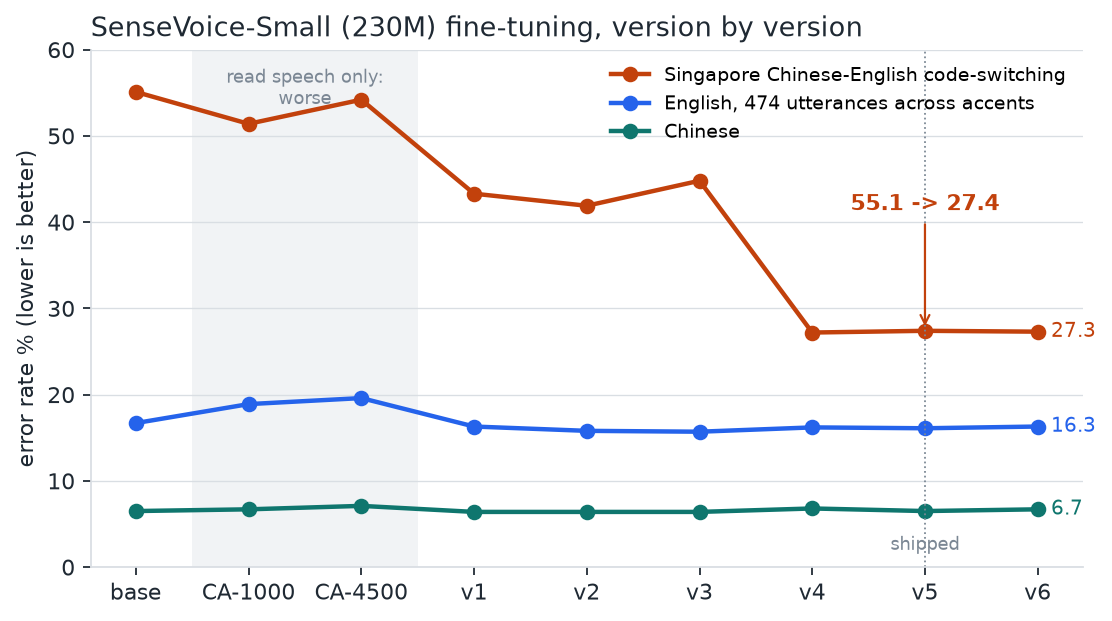
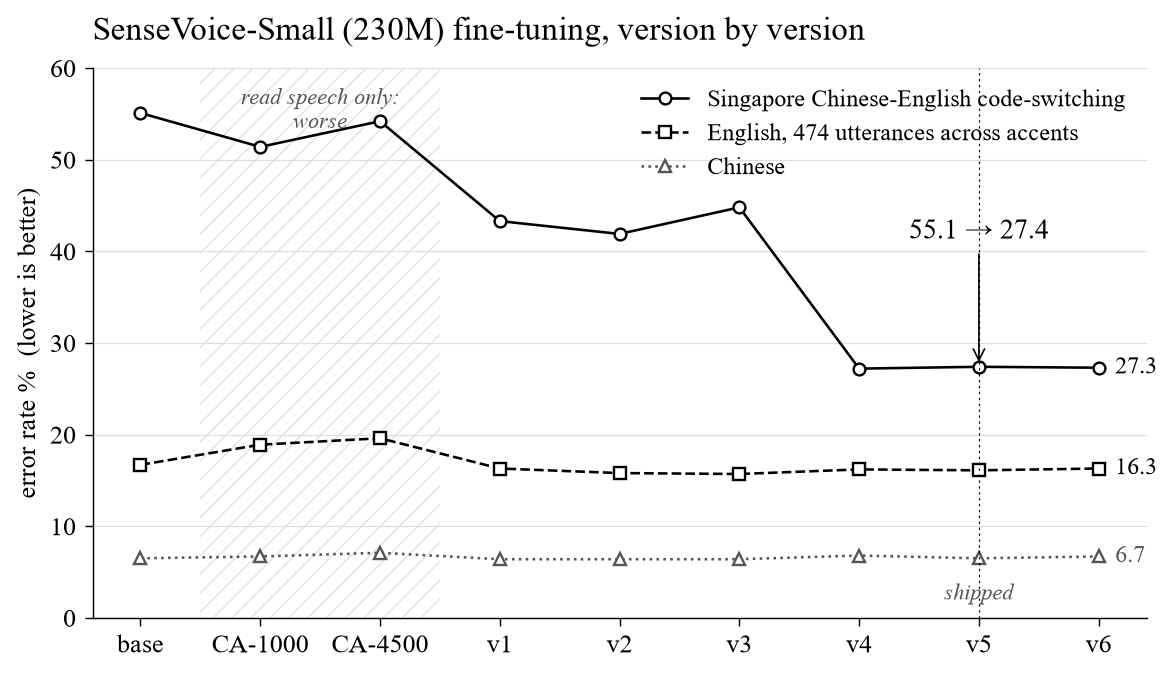
Monochrome line style, serif type for all charts and the pipeline diagram

diff --git a/tools/make_charts.py b/tools/make_charts.py
@@ -1,5 +1,6 @@
 """Draw the README charts from results/*.csv into docs/img/.
 
+Monochrome line style (black on white, serif type), matching docs/img/pipeline.png.
 Usage: python tools/make_charts.py   (needs matplotlib)
 """
 import csv
@@ -14,19 +15,22 @@ ROOT = os.path.dirname(os.path.dirname(os.path.abspath(__file__)))
 RES = os.path.join(ROOT, "results")
 OUT = os.path.join(ROOT, "docs", "img")
 
-INK = "#1f2933"
-GRID = "#d9dee3"
-MUTED = "#7b8794"
-C1 = "#c2410c"   # headline series
-C2 = "#2563eb"
-C3 = "#0f766e"
-TEACHER = "#94a3b8"
+INK = "#000000"
+MUTED = "#555555"
+GRID = "#dddddd"
+# bar fills, light to dark: reference / baseline / ours
+F_REF = "#ffffff"
+F_MID = "#bbbbbb"
+F_OURS = "#000000"
 
 plt.rcParams.update({
-    "font.family": "DejaVu Sans", "font.size": 10, "axes.edgecolor": GRID, "axes.labelcolor": INK,
-    "xtick.color": INK, "ytick.color": INK, "axes.spines.top": False, "axes.spines.right": False,
-    "figure.facecolor": "white", "axes.facecolor": "white", "savefig.dpi": 160,
+    "font.family": "serif", "font.serif": ["Times New Roman", "Times", "Liberation Serif", "DejaVu Serif"],
+    "font.size": 11, "axes.edgecolor": INK, "axes.linewidth": 0.6, "axes.labelcolor": INK,
+    "xtick.color": INK, "ytick.color": INK, "xtick.major.width": 0.6, "ytick.major.width": 0.6,
+    "axes.spines.top": False, "axes.spines.right": False, "hatch.linewidth": 0.5,
+    "figure.facecolor": "white", "axes.facecolor": "white", "savefig.dpi": 170,
 })
+BAR = dict(edgecolor=INK, linewidth=0.6)
 
 
 def rows(name):
@@ -41,31 +45,37 @@ def save(fig, name):
     print("wrote", name)
 
 
+def title(ax, text):
+    ax.set_title(text, loc="left", color=INK, fontsize=14, pad=12)
+
+
 def asr_progress():
     r = rows("asr_versions.csv")
     x = list(range(len(r)))
     labels = [d["version"] for d in r]
     fig, ax = plt.subplots(figsize=(8, 4.2))
-    for key, name, color in (("sg_codeswitch", "Singapore Chinese-English code-switching", C1),
-                             ("english_overall", "English, 474 utterances across accents", C2),
-                             ("chinese", "Chinese", C3)):
+    series = (("sg_codeswitch", "Singapore Chinese-English code-switching", "-", "o", INK),
+              ("english_overall", "English, 474 utterances across accents", "--", "s", INK),
+              ("chinese", "Chinese", ":", "^", MUTED))
+    for key, name, ls, mk, color in series:
         y = [float(d[key]) for d in r]
-        ax.plot(x, y, marker="o", color=color, lw=2, label=name)
-        ax.annotate(f"{y[-1]:.1f}", (x[-1], y[-1]), xytext=(6, 0), textcoords="offset points",
-                    va="center", color=color, fontsize=9)
+        ax.plot(x, y, ls=ls, marker=mk, ms=5, color=color, lw=1.1, label=name, mfc="white", mew=1)
+        ax.annotate(f"{y[-1]:.1f}", (x[-1], y[-1]), xytext=(7, 0), textcoords="offset points",
+                    va="center", color=color, fontsize=10)
     sg0, sg5 = float(r[0]["sg_codeswitch"]), float(r[7]["sg_codeswitch"])
-    ax.annotate(f"{sg0:.1f} -> {sg5:.1f}", (7, sg5), xytext=(7, sg5 + 14), ha="center", color=C1,
-                fontsize=10, fontweight="bold", arrowprops=dict(arrowstyle="->", color=C1))
-    ax.axvspan(0.5, 2.5, color=GRID, alpha=0.35, lw=0)
-    ax.text(1.5, 58, "read speech only:\nworse", ha="center", va="top", color=MUTED, fontsize=8)
-    ax.axvline(7, color=MUTED, lw=0.8, ls=":")
-    ax.text(7, 2, "shipped", ha="center", color=MUTED, fontsize=8)
+    ax.annotate(f"{sg0:.1f} → {sg5:.1f}", (7, sg5), xytext=(7, sg5 + 14), ha="center", color=INK,
+                fontsize=12, arrowprops=dict(arrowstyle="->", color=INK, lw=0.7))
+    ax.axvspan(0.5, 2.5, facecolor="none", edgecolor=GRID, hatch="///", lw=0)
+    ax.text(1.5, 58, "read speech only:\nworse", ha="center", va="top", color=MUTED, fontsize=9.5,
+            style="italic")
+    ax.axvline(7, color=INK, lw=0.5, ls=(0, (2, 3)))
+    ax.text(7, 2, "shipped", ha="center", color=MUTED, fontsize=9.5, style="italic")
     ax.set_xticks(x, labels)
     ax.set_ylim(0, 60)
-    ax.set_ylabel("error rate % (lower is better)")
-    ax.set_title("SenseVoice-Small (230M) fine-tuning, version by version", loc="left", color=INK)
-    ax.grid(axis="y", color=GRID, lw=0.6)
-    ax.legend(frameon=False, loc="upper right", fontsize=8.5)
+    ax.set_ylabel("error rate %  (lower is better)")
+    title(ax, "SenseVoice-Small (230M) fine-tuning, version by version")
+    ax.grid(axis="y", color=GRID, lw=0.5)
+    ax.legend(frameon=False, loc="upper right", fontsize=10)
     save(fig, "asr_progress.png")
 
 
@@ -73,22 +83,23 @@ def asr_board():
     r = rows("asr_board.csv")
     cols = [("librispeech_clean", "LibriSpeech\nclean"), ("librispeech_other", "LibriSpeech\nother"),
             ("fleurs_en", "FLEURS\nEnglish"), ("fleurs_zh", "FLEURS\nChinese"), ("aishell1", "AISHELL-1")]
-    colors = [TEACHER, C2, C1]
+    fills = [F_REF, F_MID, F_OURS]
     fig, ax = plt.subplots(figsize=(8, 3.8))
     w = 0.26
     for i, d in enumerate(r):
         xs = [j + (i - 1) * w for j in range(len(cols))]
         ys = [float(d[k]) for k, _ in cols]
-        ax.bar(xs, ys, w, color=colors[i], label=d["config"])
+        ax.bar(xs, ys, w, color=fills[i], label=d["config"], **BAR)
         if i == 2:
             for xx, yy in zip(xs, ys):
-                ax.text(xx, yy + 0.3, f"{yy:.1f}", ha="center", fontsize=8, color=C1)
+                ax.text(xx, yy + 0.3, f"{yy:.1f}", ha="center", fontsize=9.5, color=INK)
     ax.set_xticks(range(len(cols)), [c for _, c in cols])
-    ax.set_ylabel("error rate % (lower is better)")
-    ax.set_title("On the RK3588 NPU: fine-tune, then fix an fp16 overflow", loc="left", color=INK)
+    ax.set_ylabel("error rate %  (lower is better)")
+    title(ax, "On the RK3588 NPU: fine-tune, then fix an fp16 overflow")
     ax.set_ylim(0, 15.5)
-    ax.grid(axis="y", color=GRID, lw=0.6)
-    ax.legend(frameon=False, fontsize=8.5, ncol=3, loc="upper center", bbox_to_anchor=(0.5, -0.17))
+    ax.grid(axis="y", color=GRID, lw=0.5)
+    ax.set_axisbelow(True)
+    ax.legend(frameon=False, fontsize=10, ncol=3, loc="upper center", bbox_to_anchor=(0.5, -0.17))
     save(fig, "asr_board.png")
 
 
@@ -100,19 +111,20 @@ def notes_finetune():
     en = [float(d["overall_en"]) for d in r]
     zh = [float(d["overall_zh"]) for d in r]
     y = list(range(len(r)))
-    fig, ax = plt.subplots(figsize=(8, 3.8))
-    h = 0.38
-    col = [C1 if "fine-tuned" in d["setup"] else (TEACHER if "teacher" in d["setup"] else C2) for d in r]
-    ax.barh([i + h / 2 for i in y], en, h, color=col, label="English")
-    ax.barh([i - h / 2 for i in y], zh, h, color=col, alpha=0.45, label="Chinese")
+    fig, ax = plt.subplots(figsize=(8, 3.9))
+    h = 0.36
+    ours = ["fine-tuned" in d["setup"] for d in r]
+    ax.barh([i + h / 2 for i in y], en, h, color=[F_OURS if o else F_MID for o in ours], **BAR)
+    ax.barh([i - h / 2 for i in y], zh, h, color="white", hatch=["////" if o else "" for o in ours], **BAR)
     for i in y:
-        ax.text(en[i] + 0.08, i + h / 2, f"{en[i]:.1f}", va="center", fontsize=8)
-        ax.text(zh[i] + 0.08, i - h / 2, f"{zh[i]:.1f}", va="center", fontsize=8, color=MUTED)
-    ax.set_yticks(y, names, fontsize=8.5)
+        ax.text(en[i] + 0.08, i + h / 2, f"{en[i]:.1f}", va="center", fontsize=9.5)
+        ax.text(zh[i] + 0.08, i - h / 2, f"{zh[i]:.1f}", va="center", fontsize=9.5, color=MUTED)
+    ax.set_yticks(y, names, fontsize=10)
     ax.set_xlim(0, 9)
-    ax.set_xlabel("blind-judged overall score, 1-10 (solid: English, light: Chinese)")
-    ax.set_title("Fine-tuning moves a 2B model past a zero-shot 4B", loc="left", color=INK)
-    ax.grid(axis="x", color=GRID, lw=0.6)
+    ax.set_xlabel("blind-judged overall score, 1–10   (filled: English, outline: Chinese)")
+    title(ax, "Fine-tuning moves a 2B model past a zero-shot 4B")
+    ax.grid(axis="x", color=GRID, lw=0.5)
+    ax.set_axisbelow(True)
     save(fig, "notes_finetune.png")
 
 
@@ -122,23 +134,25 @@ def notes_round24():
     overall = [float(d["overall"]) for d in r]
     cov = [float(d["topic_coverage"]) * 100 for d in r]
     fig, (a1, a2) = plt.subplots(1, 2, figsize=(9, 3.4))
-    col = [TEACHER] + [C2] * (len(r) - 2) + [C1]
+    col = [F_REF] + [F_MID] * (len(r) - 2) + [F_OURS]
     y = list(range(len(r)))[::-1]
-    a1.barh(y, overall, color=col)
-    a2.barh(y, cov, color=col)
+    a1.barh(y, overall, color=col, height=0.6, **BAR)
+    a2.barh(y, cov, color=col, height=0.6, **BAR)
     for i, v in zip(y, overall):
-        a1.text(v + 0.1, i, f"{v:.2f}", va="center", fontsize=8.5)
+        a1.text(v + 0.12, i, f"{v:.2f}", va="center", fontsize=9.5)
     for i, v in zip(y, cov):
-        a2.text(v + 1, i, f"{v:.0f}%", va="center", fontsize=8.5)
-    a1.set_yticks(y, names, fontsize=8.5)
+        a2.text(v + 1.2, i, f"{v:.0f}%", va="center", fontsize=9.5)
+    a1.set_yticks(y, names, fontsize=10)
     a2.set_yticks(y, [""] * len(y))
     a1.set_xlim(0, 10)
     a2.set_xlim(0, 100)
-    a1.set_title("Overall (1-10)", loc="left", fontsize=10, color=INK)
-    a2.set_title("Topics covered", loc="left", fontsize=10, color=INK)
+    a1.set_title("Overall (1–10)", loc="left", fontsize=11, color=INK)
+    a2.set_title("Topics covered", loc="left", fontsize=11, color=INK)
     for a in (a1, a2):
-        a.grid(axis="x", color=GRID, lw=0.6)
-    fig.suptitle("Meeting notes, 20 English meetings, 5 blind judges", x=0.02, y=1.04, ha="left", color=INK)
+        a.grid(axis="x", color=GRID, lw=0.5)
+        a.set_axisbelow(True)
+    fig.suptitle("Meeting notes, 20 English meetings, 5 blind judges", x=0.02, y=1.05, ha="left", color=INK,
+                 fontsize=14)
     save(fig, "notes_round24.png")
 
 

diff --git a/tools/make_flow.py b/tools/make_flow.py
@@ -13,39 +13,40 @@ from matplotlib.patches import FancyArrowPatch, FancyBboxPatch  # noqa: E402
 ROOT = os.path.dirname(os.path.dirname(os.path.abspath(__file__)))
 OUT = os.path.join(ROOT, "docs", "img", "pipeline.png")
 
-INK = "#1f2933"
-MUTED = "#52606d"
-LINE = "#7b8794"
-DATA = ("#eef2f7", "#94a3b8")      # fill, edge
-TEACH = ("#fdf0e8", "#c2410c")
-TRAIN = ("#e8effd", "#2563eb")
-TEST = ("#e7f5f3", "#0f766e")
-BOARD = ("#f3f4f6", "#1f2933")
+# Monochrome line style: black strokes on white, serif type.
+INK = "#000000"
+MUTED = "#444444"
+LINE = "#000000"
+DATA = TEACH = TRAIN = TEST = BOARD = ("#ffffff", "#000000")  # fill, edge
+TEACHER_DASH = (0, (4, 2.5))
 
-plt.rcParams.update({"font.family": "DejaVu Sans", "figure.facecolor": "white", "savefig.dpi": 170})
+plt.rcParams.update({"font.family": "serif",
+                     "font.serif": ["Times New Roman", "Times", "Liberation Serif", "DejaVu Serif"],
+                     "figure.facecolor": "white", "savefig.dpi": 170})
 
 W, H = 2.2, 1.15  # box size
 
 
-def box(ax, x, y, title, body, style, w=W, h=H):
+def box(ax, x, y, title, body, style, w=W, h=H, dashed=False):
     fill, edge = style
-    ax.add_patch(FancyBboxPatch((x - w / 2, y - h / 2), w, h, boxstyle="round,pad=0.02,rounding_size=0.12",
-                                fc=fill, ec=edge, lw=1.6))
-    ax.text(x, y + h / 2 - 0.21, title, ha="center", va="center", fontsize=9.5, fontweight="bold", color=INK)
-    ax.text(x, y - 0.14, body, ha="center", va="center", fontsize=7.8, color=MUTED, linespacing=1.35)
+    ax.add_patch(FancyBboxPatch((x - w / 2, y - h / 2), w, h, boxstyle="square,pad=0.02",
+                                fc=fill, ec=edge, lw=0.9, ls=TEACHER_DASH if dashed else "-"))
+    ax.text(x, y + h / 2 - 0.22, title, ha="center", va="center", fontsize=11, color=INK)
+    ax.text(x, y - 0.15, body, ha="center", va="center", fontsize=8.6, color=MUTED, linespacing=1.3,
+            style="italic")
 
 
 def arrow(ax, p, q, text=None, rad=0.0):
-    ax.add_patch(FancyArrowPatch(p, q, arrowstyle="-|>", mutation_scale=13, lw=1.4, color=LINE,
+    ax.add_patch(FancyArrowPatch(p, q, arrowstyle="-|>", mutation_scale=10, lw=0.8, color=LINE,
                                  connectionstyle=f"arc3,rad={rad}", shrinkA=2, shrinkB=2))
     if text:
-        ax.text((p[0] + q[0]) / 2, (p[1] + q[1]) / 2 + 0.13, text, ha="center", fontsize=7.3, color=MUTED)
+        ax.text((p[0] + q[0]) / 2, (p[1] + q[1]) / 2 + 0.13, text, ha="center", fontsize=8, color=MUTED,
+                style="italic")
 
 
 def lane(ax, y, h, label):
-    ax.add_patch(FancyBboxPatch((0.15, y - h / 2), 17.6, h, boxstyle="round,pad=0,rounding_size=0.15",
-                                fc="#fafbfc", ec="#d9dee3", lw=1))
-    ax.text(0.45, y, label, rotation=90, ha="center", va="center", fontsize=10.5, fontweight="bold", color=INK)
+    ax.plot([0.15, 17.75], [y + h / 2, y + h / 2], color=INK, lw=0.5)
+    ax.text(0.45, y, label, rotation=90, ha="center", va="center", fontsize=11.5, color=INK)
 
 
 def main():
@@ -54,25 +55,25 @@ def main():
     ax.set_ylim(0, 9.0)
     ax.axis("off")
 
-    ax.text(0.15, 8.95, "How the two on-device models were trained", fontsize=14, fontweight="bold", color=INK,
+    ax.text(0.15, 8.95, "How the two on-device models were trained", fontsize=17, color=INK,
             va="top")
     ax.text(0.15, 8.5, "Teachers are open-weight models on a home RTX 5090, or the DeepSeek API (its terms allow distillation).\n"
             "Claude writes the code and judges test sets; it never writes training data.",
-            fontsize=9, color=MUTED, va="top")
+            fontsize=10, color=MUTED, va="top", style="italic")
 
     # speech lane
     ys = 6.35
     lane(ax, ys, 2.0, "Speech\n230M")
     xs = [2.0, 4.85, 7.7, 10.55, 13.4, 16.25]
     box(ax, xs[0], ys, "Public audio", "YouTube CC-BY talk\nSingapore NSC\nCommon Voice accents", DATA)
-    box(ax, xs[1], ys, "Teacher labels", "Qwen3-ASR-1.7B, local\nkept if WER <= 0.3\nvs human captions", TEACH)
+    box(ax, xs[1], ys, "Teacher labels", "Qwen3-ASR-1.7B, local\nkept if WER <= 0.3\nvs human captions", TEACH, dashed=True)
     box(ax, xs[2], ys, "Fine-tune", "SenseVoice-Small\n277 h, 2 epochs\n~2.8 h on RTX 5090", TRAIN)
     box(ax, xs[3], ys, "Test", "12-accent English\nSingapore code-switch\nChinese, far field", TEST)
     box(ax, xs[4], ys, "Pick version", "one change per run\nv1 ... v7\nshipped: v5", TEST)
     box(ax, xs[5], ys, "On the NPU", "RKNN fp16\n+ overflow rescale\nRK3588, 4 GB", BOARD)
     for a, b in zip(xs, xs[1:]):
         arrow(ax, (a + W / 2, ys), (b - W / 2, ys))
-    ax.text(xs[1], ys - 0.78, "Singapore speech uses human transcripts", ha="center", fontsize=7.3,
+    ax.text(xs[1], ys - 0.78, "Singapore speech uses human transcripts", ha="center", fontsize=8.4,
             color=MUTED, style="italic")
 
     # notes lane
@@ -80,10 +81,10 @@ def main():
     lane(ax, yn, 3.6, "Meeting notes\n2B")
     yt, yb = yn + 0.85, yn - 0.85
     box(ax, 2.0, yt, "Public meetings", "AMI, QMSum\nMeetingBank, ELITR", DATA)
-    box(ax, 4.85, yt, "Teacher notes", "DeepSeek API\nwrites notes per\n15-min part + merge", TEACH)
+    box(ax, 4.85, yt, "Teacher notes", "DeepSeek API\nwrites notes per\n15-min part + merge", TEACH, dashed=True)
     box(ax, 7.7, yt, "SFT", "Qwen3.5-2B\n~3,000 examples\n2 epochs, RTX 5090", TRAIN)
     box(ax, 7.7, yb, "Student samples", "2-4 answers\nper training prompt", TRAIN)
-    box(ax, 10.55, yb, "Grade + pair", "DeepSeek grades vs\nsource; graders\naudited first", TEACH)
+    box(ax, 10.55, yb, "Grade + pair", "DeepSeek grades vs\nsource; graders\naudited first", TEACH, dashed=True)
     box(ax, 13.4, yb, "Preference (DPO)", "good vs bad answer\nfor the same prompt", TRAIN)
     box(ax, 10.55, yt, "Blind judging", "5 judges, 20 meetings\nmust quote last line\nbar set before run", TEST)
     box(ax, 13.4, yt, "Freeze version", "v1 ... v15\nshipped: v15", TEST)
@@ -96,20 +97,19 @@ def main():
     arrow(ax, (7.7 + W / 2, yb), (10.55 - W / 2, yb))
     arrow(ax, (10.55 + W / 2, yb), (13.4 - W / 2, yb))
     arrow(ax, (13.4 - W / 2 + 0.15, yb + H / 2), (10.55 + W / 2 - 0.15, yt - H / 2))
-    ax.text(12.45, yn, "retrained\nmodel", ha="left", va="center", fontsize=7.3, color=MUTED)
+    ax.text(12.45, yn, "retrained\nmodel", ha="left", va="center", fontsize=8, color=MUTED, style="italic")
     arrow(ax, (10.55 + W / 2, yt), (13.4 - W / 2, yt), "passes")
     arrow(ax, (13.4 + W / 2, yt), (16.25 - W / 2, yn + 0.2))
 
     # roles
     yr = 0.55
-    ax.add_patch(FancyBboxPatch((0.15, yr - 0.38), 8.6, 0.76, boxstyle="round,pad=0,rounding_size=0.12",
-                                fc="#ffffff", ec="#d9dee3"))
-    ax.text(0.4, yr, "Human:  product goals, hardware budget, acceptance bars, final calls", fontsize=9,
+    ax.plot([0.15, 17.75], [yr + 0.5, yr + 0.5], color=INK, lw=0.5)
+    ax.text(0.15, yr, "Human — product goals, hardware budget, acceptance bars, final calls", fontsize=10.5,
             va="center", color=INK)
-    ax.add_patch(FancyBboxPatch((9.15, yr - 0.38), 8.6, 0.76, boxstyle="round,pad=0,rounding_size=0.12",
-                                fc="#ffffff", ec="#d9dee3"))
-    ax.text(9.4, yr, "Claude Code:  model survey, data, training and test code, runs, reports", fontsize=9,
+    ax.text(9.15, yr, "Claude Code — model survey, data, training and test code, runs, reports", fontsize=10.5,
             va="center", color=INK)
+    ax.text(17.75, 8.95, "dashed box = teacher model", ha="right", va="top", fontsize=9, color=MUTED,
+            style="italic")
 
     os.makedirs(os.path.dirname(OUT), exist_ok=True)
     fig.savefig(OUT, bbox_inches="tight")
